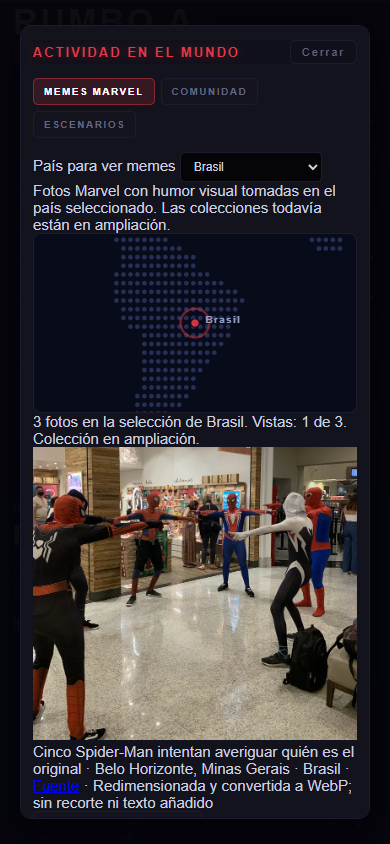
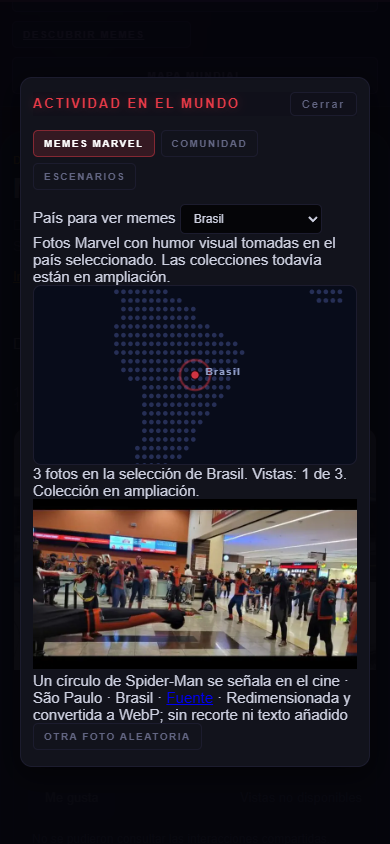
Remove rejected landing map and preserve original world map

diff --git a/index.html b/index.html
@@ -1874,7 +1874,6 @@ body.tour-on .tour-path { opacity: 1 !important; }
 </style>
 <style>
 .meme-feed{position:relative;z-index:1;width:min(760px,100%);margin:32px auto;padding:28px 24px;scroll-margin-top:24px;border:1px solid var(--border);border-radius:24px;background:#0d101b;box-shadow:0 16px 60px #0004}
-.feed-map-panel{margin-top:24px;background:#090c16;border:1px solid var(--border);border-radius:16px;padding:12px}.feed-map svg{display:block;width:100%;height:auto;min-height:160px}.feed-land{fill:#26314b;stroke:#4c5772;stroke-width:1}.feed-map-hit{fill:transparent}.feed-map-dot{fill:#f5c869;stroke:#0d101b;stroke-width:2;pointer-events:none}.feed-map [data-country]{cursor:pointer}.feed-map [data-country]:focus{outline:none}.feed-map [data-country]:focus .feed-map-dot,.feed-map [aria-pressed=true] .feed-map-dot{fill:#fff;stroke:#ed354e;stroke-width:4}.feed-map-panel p{margin:8px 4px 0;font-size:13px;line-height:1.4;color:var(--text)}
 .feed-heading{display:flex;align-items:flex-start;gap:20px;justify-content:space-between}.feed-heading h2{font-size:clamp(28px,5vw,38px);line-height:1.05;color:var(--text);margin:6px 0 12px}.feed-heading p,.feed-note{color:var(--muted);font-size:14px;line-height:1.5}.feed-kicker{letter-spacing:3px;color:var(--gold)!important;font-size:11px!important}
 .feed-tracker-link{color:var(--gold);flex-shrink:0;font-size:13px;padding:12px 0}.feed-country-label{display:flex;flex-wrap:wrap;gap:10px;align-items:center;margin:20px 0}.feed-country-label select{min-height:44px;font-size:14px;max-width:100%}
 #feedStatus{font-size:13px;color:var(--muted);margin:12px 0}.feed-list{display:grid;gap:24px}.feed-card{overflow:hidden;background:#12131c;border:1px solid var(--border);border-radius:18px;box-shadow:0 8px 24px #0003;scroll-margin-top:24px}.feed-card figure{margin:0}.feed-card img{display:block;width:100%;height:auto;max-height:70svh;object-fit:contain;background:#090a11;aspect-ratio:auto}.feed-card figcaption{padding:18px;font-size:13px;line-height:1.5;overflow-wrap:anywhere}.feed-card figcaption a{color:var(--gold)}
@@ -1944,7 +1943,6 @@ body.tour-on .tour-path { opacity: 1 !important; }
 </div>
 <section id="memeFeed" class="meme-feed" aria-labelledby="feedTitle">
   <div class="feed-heading"><div><p class="feed-kicker">DESCUBRE</p><h2 id="feedTitle">Marvel fuera de la pantalla</h2><p>Disfraces inesperados y escenas reales de cada país. Sigue bajando para descubrirlas.</p></div><a class="feed-tracker-link" href="#mc">Ir al rastreador</a></div>
-  <div class="feed-map-panel"><div id="feedMap" class="feed-map"></div><p id="feedMapCaption">Elige un país en el mapa o en el selector.</p></div>
   <label class="feed-country-label" for="feedCountry">Descubrir fotos de <select id="feedCountry" class="cb-reg"></select></label>
   <p id="feedStatus" role="status">Preparando la colección…</p>
   <div id="feedList" class="feed-list"></div>
@@ -3209,16 +3207,7 @@ window.WorldMap = (() => {
     }
     return '<svg class="mapsvg" viewBox="'+(x-140)+' '+(y-85)+' 280 170" role="img" aria-label="Mapa centrado en '+esc(name)+'">'+land+'</g><circle class="ring" cx="'+x+'" cy="'+y+'" r="6"/><circle class="dot me" cx="'+x+'" cy="'+y+'" r="4"/><text class="lbl" x="'+(x+10)+'" y="'+y+'">'+esc(name)+'</text></svg>';
   }
-  function discoveryMap() {
-    const land=LAND.map(poly=>'<polygon class="feed-land" points="'+poly.map(([lon,lat])=>px(lon).toFixed(1)+','+py(lat).toFixed(1)).join(' ')+'"/>').join('');
-    const points=window.Region.countries().map(([code,name])=>{
-      const position=C[code];if(!position)return '';
-      const [lat,lon]=position;
-      return '<g data-country="'+code+'" role="button" tabindex="0" aria-pressed="false" aria-label="Descubrir fotos de '+esc(name)+'" transform="translate('+px(lon).toFixed(1)+' '+py(lat).toFixed(1)+')"><title>'+esc(name)+'</title><circle class="feed-map-hit" r="12"/><circle class="feed-map-dot" r="5"/></g>';
-    }).join('');
-    return '<svg viewBox="0 0 '+W+' '+H+'" role="group" aria-label="Mapa de países para descubrir memes">'+land+points+'</svg>';
-  }
-  return { open, close, countryMap, discoveryMap };
+  return { open, close, countryMap };
 })();
 /* Memes are requested from one country file; never load a global catalogue. */
 window.MapMemes = (() => {

diff --git a/scripts/meme-feed.js b/scripts/meme-feed.js
@@ -103,8 +103,6 @@ window.MemeFeed=(()=>{
   async function open(next=window.MapMemes.resolveCountry(),force=false){
     next=window.MapMemes.valid(next)?next:null;if(!force&&next===code&&(loading||items.length))return;
     cancel();const generation=epoch;code=next;items=[];cursor=0;loading=!!code;manifestFailed=false;$('feedList').replaceChildren();$('feedCountry').value=code||'';$('feedMore').hidden=true;$('feedEnd').hidden=true;$('feedRetry').hidden=true;
-    for(const point of $('feedMap').querySelectorAll('[data-country]'))point.setAttribute('aria-pressed',String(point.dataset.country===code));
-    $('feedMapCaption').textContent=code?'País seleccionado: '+$('feedCountry').selectedOptions[0].textContent+'.':'Elige un país en el mapa o en el selector.';
     if(!code){status('Selecciona un país para descubrir sus fotos.');return;}
     status('Cargando la colección…');controller=new AbortController();timer=setTimeout(()=>controller?.abort(),10000);
     try{
@@ -127,9 +125,6 @@ window.MemeFeed=(()=>{
   function init(){
     if(mounted||!$('memeFeed'))return;mounted=true;const select=$('feedCountry');select.add(new Option('Selecciona un país',''));for(const [id,name]of window.Region.countries())select.add(new Option(name,id));
     select.onchange=()=>{if(select.value)window.SafeStorage.setItem('mcu_map_country',select.value);else window.SafeStorage.removeItem('mcu_map_country');open(select.value);};
-    $('feedMap').innerHTML=window.WorldMap.discoveryMap();
-    const choose=e=>{const point=e.target.closest('[data-country]');if(!point||!$('feedMap').contains(point))return;if(e.type==='keydown'&&!['Enter',' '].includes(e.key))return;e.preventDefault();select.value=point.dataset.country;select.onchange();};
-    $('feedMap').addEventListener('click',choose);$('feedMap').addEventListener('keydown',choose);
     $('feedMore').onclick=append;$('feedRetry').onclick=()=>manifestFailed?open(code,true):Promise.all([refresh(),flushViews()]);
     const observeBlockers=()=>{blockers.observe(document.body,{attributes:true,attributeFilter:['class']});if($('mapwrap'))blockers.observe($('mapwrap'),{attributes:true,attributeFilter:['class']});};
     blockers=new MutationObserver(()=>{cancelVisibleTimers();for(const s of cards.values())scheduleView(s)});observeBlockers();

diff --git a/AGENTS.md b/AGENTS.md
@@ -1,6 +1,6 @@
 # Instrucciones para agentes — MCU Tracker
 
-Requisito actual explícito: **mínimo diez fotos distintas por cada uno de los 51 países soportados**. La sección de memes en la landing debe tener su mapa visible, selector manual y varias tarjetas recorribles mediante scroll; no sustituirlo por el visor aleatorio del modal. Los lotes de cuatro son paginación, nunca un límite al tamaño de la colección. Estado actual: 54 fotos únicas en 22 países; CA y US alcanzan diez. Faltan 456 fotos en 49 países, de los cuales 29 siguen vacíos. Leer docs/country-coverage.md y docs/photo-coverage.json. complete:false; no informar completo por publicar estructura ni por cumplir solo dos países. El mínimo anterior de tres queda obsoleto; conservarlo únicamente en pruebas históricas identificadas. El país es ubicación documentada de la escena, no audiencia. No restaurar el pool internacional del PR #5 ni asignar una foto a varios países. Solo fotos reales Marvel con humor visual, sin texto de meme superpuesto; conservar carteles físicos y marcas de agua. No inventar licencias/fotógrafo; 18 licencias siguen sin acreditar. Importación sin red y validación transaccional antes de escribir: npm run import:photos. Bytes/píxeles/pHash completo y recortes centrales detectan duplicados; distancia <=8 exige revisión manual en scripts/visual-distinctness.json y duplicados exactos siempre fallan. npm run check:coverage exige diez y debe fallar con estos faltantes. Cancelar cargas/respuestas antiguas al cambiar de país; cargar solo sus JSON e imágenes locales diferidas. Probar clic y teclado del mapa, scroll hasta diez o más tarjetas, fin real, recarga, móvil/escritorio y guía 7→8→fin.
+Requisito actual explícito: **mínimo diez fotos distintas por cada uno de los 51 países soportados**. La sección de memes en la landing debe tener selector manual y varias tarjetas recorribles mediante scroll; no sustituirlo por el visor aleatorio del modal. Los lotes de cuatro son paginación, nunca un límite al tamaño de la colección. Estado actual: 54 fotos únicas en 22 países; CA y US alcanzan diez. Faltan 456 fotos en 49 países, de los cuales 29 siguen vacíos. Leer docs/country-coverage.md y docs/photo-coverage.json. complete:false; no informar completo por publicar estructura ni por cumplir solo dos países. El mínimo anterior de tres queda obsoleto; conservarlo únicamente en pruebas históricas identificadas. El país es ubicación documentada de la escena, no audiencia. No restaurar el pool internacional del PR #5 ni asignar una foto a varios países. Solo fotos reales Marvel con humor visual, sin texto de meme superpuesto; conservar carteles físicos y marcas de agua. No inventar licencias/fotógrafo; 18 licencias siguen sin acreditar. Importación sin red y validación transaccional antes de escribir: npm run import:photos. Bytes/píxeles/pHash completo y recortes centrales detectan duplicados; distancia <=8 exige revisión manual en scripts/visual-distinctness.json y duplicados exactos siempre fallan. npm run check:coverage exige diez y debe fallar con estos faltantes. Cancelar cargas/respuestas antiguas al cambiar de país; cargar solo sus JSON e imágenes locales diferidas. No añadir un mapa al principal: el usuario rechazó el mapa nuevo del feed el 11 de octubre de 2026. Conservar únicamente el mapa original accesible desde #mapOpen, con #mapwrap, #memeMap y sus controles en su ubicación existente. Probar selector del feed, mapa original, scroll hasta diez o más tarjetas, fin real, recarga, móvil/escritorio y guía 7→8→fin.
 
 
 Resaltado de guía: conservar `tour-path` en todos los ancestros del destino para que el oscurecimiento no atenúe la película/casilla. Mantener `tourSpotlight` en `body`, por encima de las filas y debajo de `tourCard`, con pointer-events none. Limpiar la ruta al cerrar o cambiar de paso. Comprobar opacidad de todos los ancestros en pasos 7 y 8.
@@ -22,3 +22,5 @@ Publicación PR #7 verificada: ac108c0935b433ed4bcfab86d7121c4d298276be, workflo
 La lectura real del agregado también pasó en Chrome con acceso de red: tests/browser-shared-stats.cjs y docs/browser-shared-stats-results.json. Bloquea toda escritura, incluidos track_visit y OTP. No usar ese PASS para afirmar validación de likes/vistas autenticados.
 
 Publicación del mapa integrado y requisito de diez: PR #8, commit 7393b923f17e69cabe52ff0920e4d85eb8005dd8, workflow 38104269159 success, 107 archivos públicos idénticos. Chrome PASS en 1280×900 y 390×844: mapa clic/teclado, 51 selectores, 54 fotos, scroll de diez y guía 7→8→fin. Supabase devuelve 54 agregados válidos; Chrome compara 34 tarjetas incluyendo CA/US y recarga. Sigue sin verificarse la escritura/persistencia autenticada real. El contenido sigue incompleto: 49 países y 456 fotos pendientes.
+
+Restricción vigente de interfaz (11 de octubre de 2026): la portada no contiene #feedMap, #feedMapCaption ni discoveryMap. Mantener la sección aparte de memes, selector de país, scroll progresivo y likes/vistas. El registro del PR #8 es histórico y no autoriza restaurar el mapa principal retirado. Leer docs/map-placement-correction.md.

diff --git a/docs/meme-feed.md b/docs/meme-feed.md
@@ -2,7 +2,7 @@
 
 ## Estado
 
-Implementado en la portada: tarjetas verticales, selector de país, descubrimiento mediante scroll y acceso al rastreador. El mínimo explícito ahora es diez fotos distintas por cada uno de los 51 países. Hay 54 fotos únicas en 22 países: Canadá y Estados Unidos alcanzan diez; faltan 456 fotos en los otros 49 países, con 29 vacíos. complete:false. La sección se diferencia visualmente del rastreador con panel, título, mapa visible y selector manual. El mapa cambia la colección mediante clic, Enter o espacio; las tarjetas anteriores se eliminan únicamente al cambiar de país.
+Implementado en la portada: tarjetas verticales, selector de país, descubrimiento mediante scroll y acceso al rastreador. El mínimo explícito ahora es diez fotos distintas por cada uno de los 51 países. Hay 54 fotos únicas en 22 países: Canadá y Estados Unidos alcanzan diez; faltan 456 fotos en los otros 49 países, con 29 vacíos. complete:false. La sección se diferencia visualmente del rastreador con panel, título y selector manual. No contiene un mapa: el usuario rechazó el mapa nuevo en la portada el 11 de octubre de 2026. El selector cambia la colección; las tarjetas anteriores se eliminan únicamente al cambiar de país.
 
 El frontend y la migración de Me gusta/vistas están publicados. Tras fusionar el PR #8, Supabase respondió HTTP 200 a `get_meme_stats` con los 54 IDs aprobados y contadores válidos en lotes de 50 y cuatro; consultar `meme-backend-readiness.json`. La consulta anterior al despliegue devolvía 404/PGRST202. El SQL y los cambios de cuenta se probaron con PostgreSQL embebido y red simulada. La escritura y persistencia con una sesión autenticada real siguen sin verificar. La interfaz no inventa cifras cuando falla el backend.
 
@@ -36,6 +36,6 @@ Se corrigió además la dependencia transitiva `source-map-js` a una versión re
 
 Consulta real desde Chrome: `tests/browser-shared-stats.cjs` permitió únicamente Pages y la RPC de lectura `get_meme_stats`, bloqueando OTP, likes, vistas y visitas del sitio. La nueva ejecución verificó 34 tarjetas entre Ecuador, Brasil, Estados Unidos, Canadá y la recarga de Canadá: contadores iguales a los agregados recibidos y Me gusta deshabilitado para invitado. Resultado PASS en `browser-shared-stats-results.json`. La prueba necesitó acceso de red fuera de la restricción del entorno; los primeros intentos restringidos terminaron en timeout. Esto verifica lectura y representación de datos reales, no persistencia de escrituras autenticadas.
 
-## Requisito de diez y mapa visible
+## Requisito de diez y ubicación del mapa
 
-La proyección y las coordenadas reutilizan WorldMap. El mapa integrado contiene 51 marcadores y polígonos ligeros de continentes; no descarga imágenes ni JSON de otros países. El selector accesible resuelve las zonas con marcadores próximos y mantiene la selección con el mapa. El estado muestra las fotos disponibles y el déficit para diez; un fin de colección parcial no equivale a cumplimiento. La prueba de DOM recorre 12 tarjetas por scroll; Chrome recorre las colecciones reales de diez de CA/US, prueba mapa y guía en dos tamaños. Las pruebas del PR #7 conservadas bajo docs/history/pr7 describen la versión anterior, no este cambio.
+El único mapa se conserva en su ubicación original, accesible desde «Mapa mundial», con sus pestañas y selector propios. Se retiraron del feed el mapa nuevo, su generador SVG, los estilos exclusivos y los eventos. No reintroducirlo en la portada. El selector accesible del feed sigue compartiendo la preferencia de país y permite recorrer las 51 colecciones. La prueba de DOM recorre 12 tarjetas por scroll; Chrome recorre las colecciones reales, valida la ausencia del mapa principal y comprueba el mapa original y la guía en dos tamaños. Los informes del PR #8 conservados en docs/history/pr8 son históricos y muestran el mapa retirado.

diff --git a/docs/map-placement-correction.md b/docs/map-placement-correction.md
@@ -1,0 +1,9 @@
+# Corrección de ubicación del mapa
+
+Instrucción del usuario, 11 de octubre de 2026: «el mapa no debe mostrarse en el principal, ese mapa nuevo borrarlo y debes dejar solo el que estaba en su lado». Sustituye el requisito anterior de mapa visible en la portada.
+
+Se eliminan #feedMap, #feedMapCaption, su panel, estilos, generador WorldMap.discoveryMap y eventos exclusivos. El mapa original, accesible desde #mapOpen y contenido en #mapwrap, conserva su código, pestañas, controles y mapa #memeMap. La sección de memes mantiene selector de los 51 países, múltiples tarjetas, scroll progresivo, imágenes diferidas, likes y vistas. No agregar otro mapa al principal.
+
+Estado preparado localmente. Integración y publicación se acreditarán con commit, ejecución de Pages y pruebas sobre la URL pública; los informes históricos del PR #8 no acreditan esta corrección.
+
+Cobertura editorial sin cambios: 54 fotos en 22 países; CA/US tienen diez. Faltan 456 en 49 países; 29 vacíos. complete:false. Persisten 18 licencias no acreditadas y la validación de escrituras/persistencia autenticada en producción.
